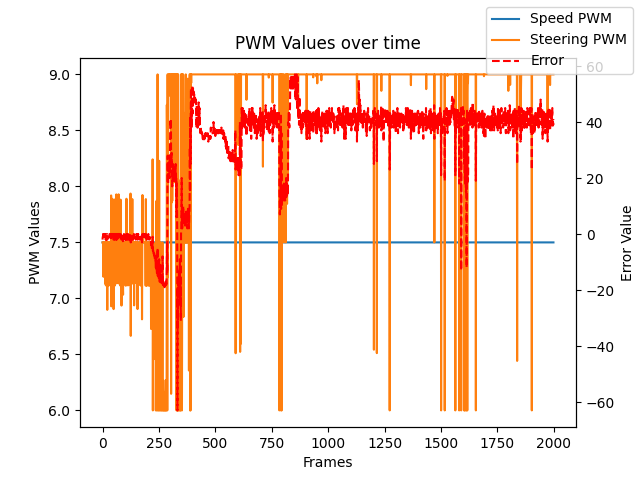
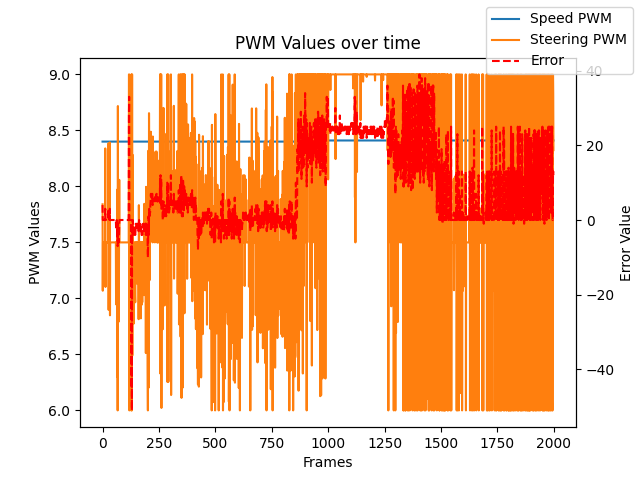
saving stuff

diff --git a/LaneKeepingAlgorithm.py b/LaneKeepingAlgorithm.py
@@ -10,7 +10,7 @@ import time
 # Throttle
 FACTOR = 20000000 / 100
 throttlePin = "P8_13"
-go_forward = 8.2
+go_forward = 8.4
 go_faster_addition = 0.01
 go_faster_tick_delay = 80
 go_faster_tick = 0  # Do not change this here. Code will set this value after seeing stop sign
@@ -46,7 +46,7 @@ def isRedFloorVisible(frame):
     :param frame: Image
     :return: [(True is the camera sees a red on the floor, false otherwise), video output]
     """
-    print("Checking for floor stop")
+    #print("Checking for floor stop")
     boundaries = getRedFloorBoundaries()
     return isMostlyColor(frame, boundaries)
 
@@ -110,7 +110,7 @@ def isMostlyColor(image, boundaries):
 
     #Calculate what percentage of image falls between color boundaries
     percentage_detected = np.count_nonzero(mask) * 100 / np.size(mask)
-    print("percentage_detected " + str(percentage_detected) + " lower " + str(lower) + " upper " + str(upper))
+    #print("percentage_detected " + str(percentage_detected) + " lower " + str(lower) + " upper " + str(upper))
     # If the percentage percentage_detected is betweeen the success boundaries, we return true, otherwise false for result
     result = percentage[0] < percentage_detected <= percentage[1]
     if result:
@@ -247,7 +247,7 @@ def average_slope_intercept(frame, line_segments):
     lane_lines = []
 
     if line_segments is None:
-        print("no line segments detected")
+       # print("no line segments detected")
         return lane_lines
 
     height, width, _ = frame.shape
@@ -261,7 +261,7 @@ def average_slope_intercept(frame, line_segments):
     for line_segment in line_segments:
         for x1, y1, x2, y2 in line_segment:
             if x1 == x2:
-                print("skipping vertical lines (slope = infinity")
+                #print("skipping vertical lines (slope = infinity")
                 continue
 
             fit = np.polyfit((x1, x2), (y1, y2), 1)
@@ -463,6 +463,7 @@ while counter < max_ticks:
                 cv2.imshow("floorSight", floorSight)
             if isStopSignBool:
                 print("detected first stop sign, stopping")
+                time.sleep(1.5)
                 stop()
                 time.sleep(2)
                 passedFirstStopSign = True
@@ -476,10 +477,11 @@ while counter < max_ticks:
         # check for the second stop sign
         elif passedFirstStopSign and counter > secondStopSignTick:
             isStop2SignBool, _ = isRedFloorVisible(frame)
-            print("is a floor stop: ", isStopSignBool)
+           # print("is a floor stop: ", isStopSignBool)
             if isStop2SignBool:
                 # last stop sign detected, exits while loop
                 print("detected second stop sign, stopping")
+                time.sleep(1.5)
                 stop()
                 break
 
@@ -536,10 +538,8 @@ while counter < max_ticks:
     if 7.2 < turn_amt < 7.8:
         turn_amt = 7.5
     elif turn_amt > left:
-        print("Turning Left")
         turn_amt = left
     elif turn_amt < right:
-        print("Turning right")
         turn_amt = right
 
     # turn!
